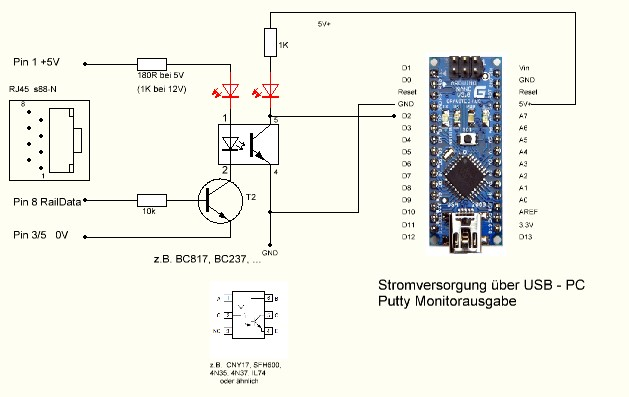
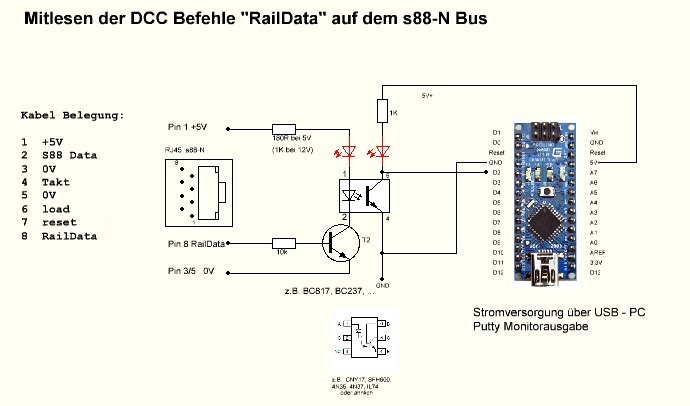
Ss88 Sniffer

diff --git a/Eisenbahn/DCC_Sniffer/DCC_Sniffer.html b/Eisenbahn/DCC_Sniffer/DCC_Sniffer.html
@@ -52,6 +52,14 @@
                 >
                     <img src="s88-N_DCC_Sniffer.jpg" class="bild45" alt="s88-N_DCC_Sniffer.jpg">
                 </a>
+                <a
+                    class="bild45"
+                    href="Gleis_DCC_Sniffer_Plan.jpg"
+                    target="_blank"
+                    title="Gleis_DCC_Sniffer_Plan.jpg"
+                >
+                    <img src="Gleis_DCC_Sniffer_Plan.jpg" class="bild45" alt="Gleis_DCC_Sniffer_Plan.jpg">
+                </a>
             </div>
             <br>
             <br>
